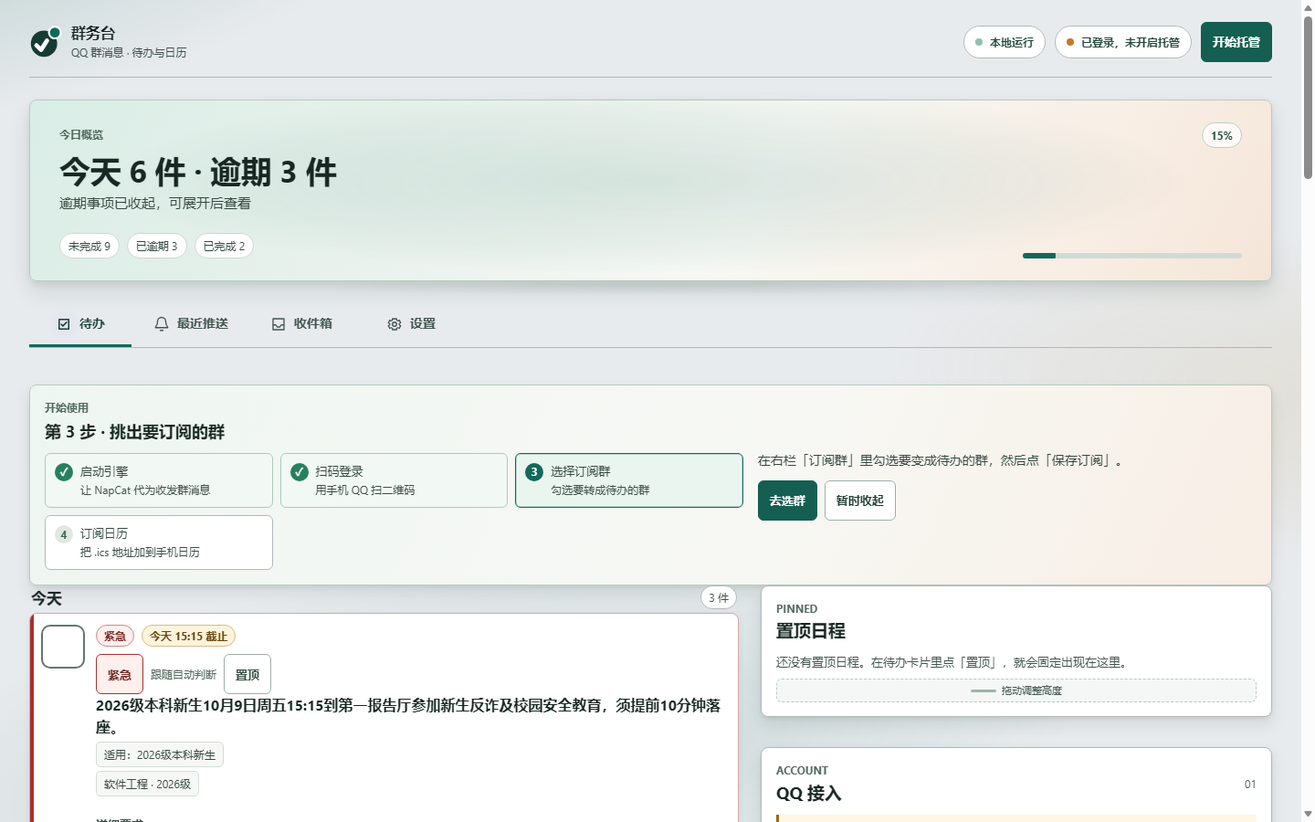
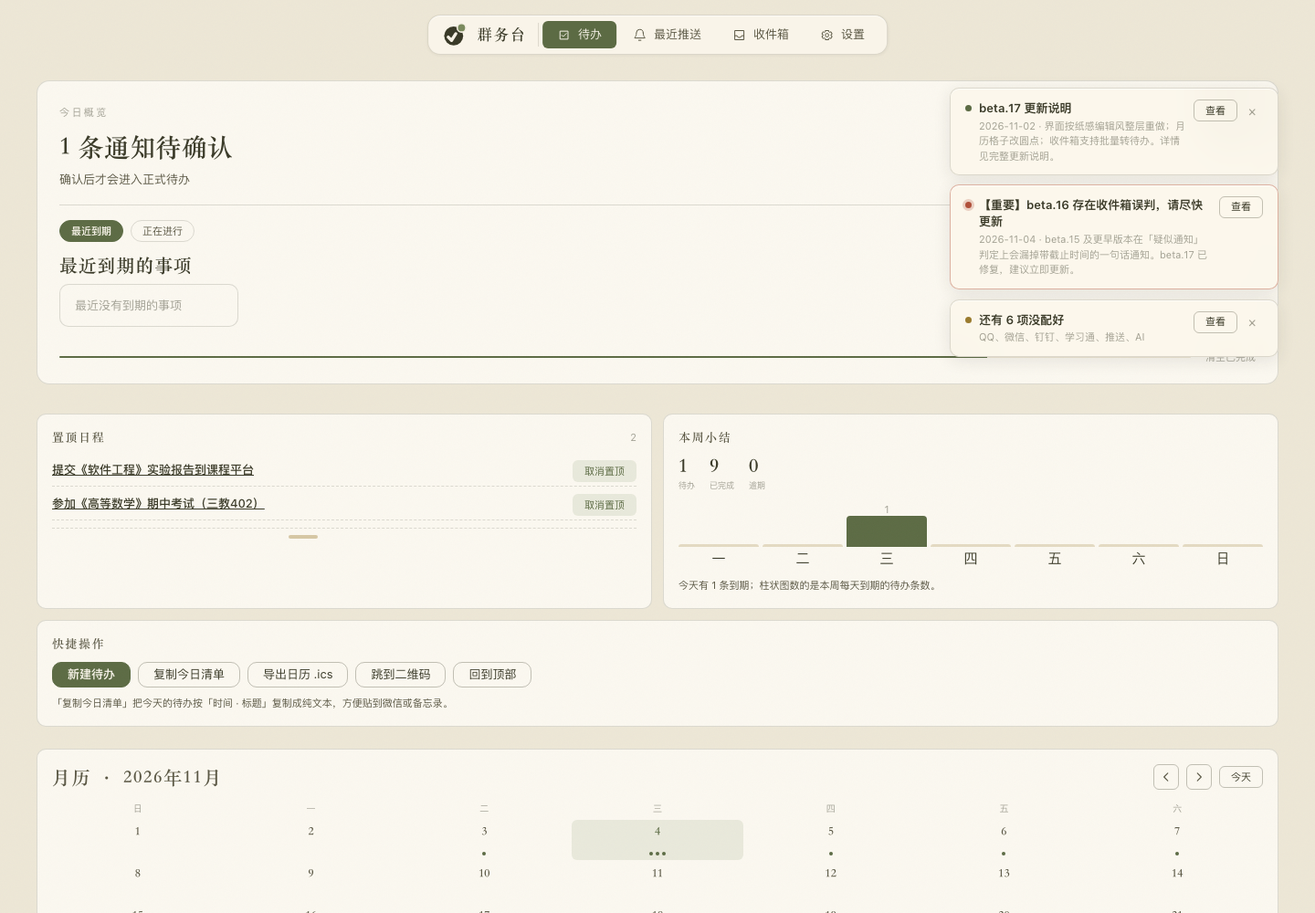
release: v1.1.0-beta.17（版本号、更新日志、公告、README、截图）
- 版本 1.1.0-beta.16 → 1.1.0-beta.17；changelog 把「未发布」整理成 beta.17 一节
- 新增 beta.17 公告（min/max_version 对齐，含升级方式）
- README：下载链接与发布横幅指向 beta.17，补本版说明；截图换成当前界面三张
  （待办 / 设置 → 外观含通知颜色 / 深色磨砂通知）

diff --git a/noticehub/version.py b/noticehub/version.py
@@ -9,7 +9,7 @@
 
 from __future__ import annotations
 
-APP_VERSION = "1.1.0-beta.16"
+APP_VERSION = "1.1.0-beta.17"
 APP_CHANNEL = "beta"  # "stable" | "beta"：决定检查 /releases/latest 还是 /releases 列表
 
 __all__ = ["APP_VERSION", "APP_CHANNEL"]

diff --git a/docs/wiki/changelog.md b/docs/wiki/changelog.md
@@ -8,6 +8,136 @@
 
 这一版之后的改动记在这里。
 
+## 1.1.0-beta.17 · 2026-11-04
+
+界面按原型收口的一版：提示与引导都收进右上角悬浮通知，通知颜色可以自己挑。
+
+**这一轮把提示和引导收进「右上角悬浮通知」，页面更安静。**
+
+- **服务公告不再占页头横幅。** 「【重要】beta.16 存在收件箱误判……」这类公告改成右上角悬浮通知，排在「还有 N 项没配好」的上面；点通知打开原来的公告详情弹窗，必须确认的公告没有 ×、不会自动消失。拉取失败时也会在同一位置出一条可关闭的提示，下一次拉取成功会自动撤掉、恢复真实公告。
+- **公告详情弹窗支持 Esc 关闭。** 按 Esc 等于点「我知道了」，关掉就算看过，下次启动不会再弹同一条。
+- **「开始使用」改成首次打开才弹。** 不再是一张常驻页面的卡：第一次打开软件（没点过「别再提醒」）时弹出来，看完可以随时关掉，不再把首页内容顶到一屏之下。
+- **通知卡换成真正的磨砂玻璃。** 半透明底 + 背景模糊，能透出底下的纸纹与内容；透明度按试用反馈调到 56%，深浅主题都重新校过文字对比度。
+- **通知颜色可以自己挑。** 设置 → 外观里「强调色」下面新增「通知颜色」：跟随纸面 / 鼠尾草 / 梅紫 / 赭橙 / 黛蓝 / 石墨，只影响右上角的悬浮通知，颜色会和纸面自动调和，玻璃质感不变。选择记在这个浏览器里。
+- **页签抬头只留大标题。** 「最近推送 / 收件箱 / 设置」抬头上面那行小字（eyebrow）按需求去掉了。
+- **新手引导文案跟着新入口改。** 「点顶栏开始托管」「右栏订阅群」这类过时说法改成「设置 → 托管设置 / QQ 接入 / 订阅群」，引导按钮会先跳到设置页再高亮目标。
+**界面换成了纸感编辑风。** 配色、导航、卡片形状整体重做：暖纸底、沙色细线、鼠尾草绿做强调，顶栏收成一条浮在页面上的窄岛。功能一个没少，位置变了不少。
+
+- **顶栏变成浮岛。** Logo 和四个页签收进同一条窄栏，浮在页面上方。滚动时它一直在，下面的内容不会被它压住。（公告铃铛与托管开关这轮移出了浮岛，见下。）
+- **配色换成纸墨四色。** 页面底 #EDE7D6、卡片 #FBF8F0、边框 #8C8168、文字 #3A3A28，强调色是鼠尾草绿 #5C6B44。深浅两套都重新算过对比度：正文对卡片 10.9:1、次要文字 6.9:1、分隔线 3.6:1，都过 WCAG。
+- **背景从「流动柔光」换成纸纹。** 原来底色上有两层慢慢漂移的青绿光晕，现在整页铺一层极淡的纸纤维颗粒（固定层，不拦点击、不吃性能），纸感更安静。
+- **按钮改成方形圆角。** 以前全是胶囊形，现在按钮、页签、输入框都是长方形加圆角；胶囊只留给状态标签、版本徽标、进度条和开关。卡片不再有可见阴影，靠一道沙色细线分界。
+- **右栏四块搬进主列做了 bento。** 置顶日程、本周小结、快捷操作、服务自检不再挤在右侧长条里，改成主列上两行两格的方块，只在「待办」页签出现；月历跟在待办分组后面。
+- **QQ 接入与订阅群搬进设置页。** 设置页改成「左侧分组导航 + 右侧面板」：接入与通道、提醒与订阅、系统与更新三组，点左边跳到对应面板。
+- **今日概览保留成一块。** 大标题、完成度、最近到期/正在进行的切换、进度条和「清空已完成」还在同一张卡里，只是换成了衬线大标题；轮播从固定 200px 高的方块改成横向滑动的卡片带。这块卡只在「待办」页签出现（见下）。
+- **月历格子只留圆点。** 有事项的日期格里画小圆点（一件一个，最多三个），不再挤小字事项和「+N」；点一下日期格（或键盘回车）在下方展开当天全部事项与截止时刻，再点一下收回。
+- **主题多了一档「跟随系统」。** 设置 → 外观里从两档变三档，选了跟随系统，系统切深色页面就跟着变，不用刷新。
+- **强调色可以自己挑。** 设置 → 外观里新增五个色点（鼠尾草、梅紫、赭橙、黛蓝、石墨），点一下全站的主按钮、选中态、焦点环一起换，选择记在这个浏览器里。
+- **版本号从页头挪到了设置页。** 顶栏不再显示 beta 徽标，位置更清爽；版本号和推送通道、服务端口一起放在「运行信息」里。
+- **品牌副标题删除。** 顶栏只留 Logo 和「群务台」三个字，浮岛高度收到 44px。
+- **浮球页同步换色。** 桌面浮球和面板用同一套纸墨配色，暗色也一起改了。
+
+**这一轮把界面按 `b-integrated` 原型逐项对齐，改的是形状与位置，不是功能。**
+
+- **Logo 换成原型的三色。** 墨橄榄圆做底、纸色圆点压在右上、鼠尾草绿做内圈、纸色对勾；服务端注入的品牌色（`--brand-ink` / `--brand-accent`）仍然生效。
+- **浮岛只留 Logo 和页签。** 公告铃铛的入口先空着（公告面板与接口都没动，只是没挂在浮岛上）；托管状态和「开始托管」按钮搬进设置页。
+- **设置页多了「托管状态」卡。** 设置页右列第一块就是它：状态按钮点开还是「开始使用」引导，旁边的「开始托管 / 停止托管」照旧。
+- **「关于与支持」搬进设置页。** 原来挂在待办页末尾，现在是设置页右列最下面一块，左侧子导航里能直接跳过来。
+- **当天事项详情不再套卡片。** 去掉了卡片边框和底，只留一道虚线顶边 + 衬线日期标题 + 件数小字；右上角的关闭从图标换成「收起」两个字。
+- **各处尺寸按原型收紧。** 卡片、按钮、页签、输入框、日历格统一到一套更紧的圆角与高度（卡片/按钮 10px、页签 30px 高、按钮 28px 高、小按钮 24px、输入框 28px 高）；待办卡悬停只横向错开 2px，不再抬阴影。
+- **单文件演示页签修好了。** 本地生成的那份单文件演示页（不入库）双击打开时不再被首装向导浮层盖住，四个页签可以正常点。
+
+**界面几何换成了一套设计令牌。** 样式段里不再散落随手写的像素值，圆角、间距、字号、层级各有一套刻度，改一个变量就能整体挪动。这是为以后重做界面打底的第一版。
+
+- **圆角收敛到四档。** 以前同一个界面里有 2 / 3 / 4 / 5 / 6 / 7 / 8 / 9 / 10 / 12 / 14 / 16 / 18 / 20 / 25 / 99 / 999 这么多圆角值，同一种元素在不同面板里长得都不一样。现在按原型只留：控件 6、卡片与按钮 10、浮岛与概览 14、胶囊 999（正圆 50%）。16px 见方的复选框和柱状图底部另有 4px 与 2px 的固定小圆角，不再参与分档。
+- **间距统一到 4 的倍数。** 卡片之间、卡片内边距、标题与内容之间这三种关系，桌面和手机上用的是同一个刻度。手机端以前会把内边距收到 12/8，现在和桌面一致——同一种关系在不同宽度下应该读起来是同一种节奏。
+- **模块之间只剩三档间距：8 / 16 / 24。** 卡片之间 8；概览到顶部横幅、横幅到页签、卡片内边距 16；顶栏到概览、页签到内容、分组之间、左右两栏的模块之间 24。断落之间的距离永远大于断落内部的距离，扫一眼就知道哪几块是一家人。原来有两处把间距算了两遍——右栏面板的 grid gap 和自身 margin 叠成 32px，引导块叠在 main 的内边距上——都改回单层。
+- **段落、列表、标题的浏览器默认边距也归到刻度上。** 浏览器给的是 1em（15px / 13px / 18.675px），和别处的节奏对不上；现在统一 16px，项目里已有的显式边距照样覆盖它。
+- **字号收成九级阶梯，取值就是原型那张表。** 34 / 28 / 22 / 20 / 16 / 15 / 13 / 11 / 9，每一级对应一个语义（大标题、标题一、标题二、标题三与面板标题、小标题、正文、密集区、脚注、角标），相邻两级不再强行拉开固定比值——按语义分档比按比例分档更稳。
+- **卡片之间不再互相压盖。** 顶部「今日概览」卡片外圈那层呼吸光晕原来是向外扩 14px 的，会盖住上面的吸顶栏和下面的页签；现在收进卡片内部，呼吸到最大幅度也还在卡里。
+- **文字和边框之间至少留 12px。** 承载文字的卡片、面板、输入框、按钮，四边内边距不再小于 12px；文字紧贴边框那种「挤」的观感没有了。内联标签、徽标、图标按钮、日历网格这类靠父级留白的元素单独列了白名单。
+- **同一种卡片内部结构一致。** 待办卡、置顶卡、收件箱条目、右栏面板的「标题 → 详情 → 操作」三段间距取同一组值，扫一眼就能在不同区块之间找到同样的位置。
+- **段落默认边距归到刻度上。** 浏览器给段落的默认边距是 1em（15px / 13px / 18.675px），和别处的间距节奏对不上；现在改成 16px，项目里已有的显式边距照样生效。
+
+**这一轮是照原型的一次「全量对表」。** 上一版只把颜色和令牌换了过来，形状其实没跟上；这次把原型的规格表逐条搬下来重做了版面。
+
+- **浮岛真的居中了。** 以前它横贯整个版心、像一条顶栏；现在是内容有多宽就多宽的窄胶囊，居中浮在页面上方，品牌和页签之间多了一道竖分隔线。窄屏（≤760px）它会落到底部变成标签栏：图标在上、文字在下，选中只变字色不铺底。
+- **待办卡片换了骨架。** 标题回到第一行，截止时间、紧急、已置顶、分类、来源群、稍后、待确认全部变成标题下的一排小胶囊（不再截断成「最多两个 + N」）；完成、稍后、忽略、置顶、标记紧急这些按钮统一贴到卡片右侧，「紧急」和「置顶」不再是标题下面那一排切换按钮。
+- **今日概览只属于「待办」。** 它以前挂在页头，四个页签里都跟着；现在搬进待办页内部。最近推送、收件箱、设置各有一块居中的页签抬头——小字标签 + 一行衬线大标题。
+- **完成度换成衬线大数字。** 「今日已完成 58%」不再是右上角一枚胶囊标签，而是右侧的衬线大字加小字说明。
+- **圆角只剩四档。** 控件 6px、卡片与按钮 10px、浮岛与概览 14px、胶囊 999px；12px 和 8px 两档彻底去掉，同类元素在任何面板里都是同一个曲率。
+- **字号对齐原型那张表。** 34 / 28 / 22 / 20 / 16 / 15 / 13 / 11 / 9，设置页和月历的分组标题回到衬线 20px（以前被压到 13px，和标签一样大）。
+- **按钮分四种角色。** 主行动实心（accent 底）、标准描边、次要无框、删除红字；小号统一 24px 高。
+- **月历格子间隙收到 2px。** 选中的那天改用 1.5px 内描边圈住，不再画边框；月份翻页是小方按钮，旁边多了「今天」。
+- **收件箱、推送、设置按原型重排。** 收件箱一条是「标题 + 元信息行 + 右侧动作」；推送是一条 70 字符宽的居中阅读列，每条一道细实线分隔；设置页左导航 212px、选中用纸色底而不是实心绿。
+- **横向留白上了台阶。** 版心左右留白按窗口宽度取 16 / 24 / 32 / 40，都落在 4px 网格上——不会再出现 46.08px 这种小数。
+
+
+**设置页再修三处，并给通知留了一条正式的通道。**
+
+- **左侧导航能滚了。** 窗口不够高时（比如 900 高的屏幕）导航比可视区还高，它又被钉在顶部不动，最后几项「服务自检 / 关于与支持」永远够不到。现在导航自己可以滚，滚到底也不影响页面滚动，最后一项点得到、跳得动。
+- **「托管设置」重排。** 原来把三组设置各做成一张带边框的小卡，塞进托管设置这张大卡里，等于三层框套在一起；现在改成和其它设置面板一样的形态：状态行 + 「开始托管 / 结束托管」放在最上面，下面用「分组标题 + 一行一项」的方式列自动化和 AI 选项，长说明挂在标题下面一行小字。
+- **「还有 N 项没配好」改成右侧悬浮通知。** 以前它是页头的一条横条，要占一整行、还得点开才看到差什么。现在是右上角一张小卡：写明还差几项、差哪些平台，点一下弹出体检详情（每项都能直接「去配置」），右上角可以关掉。窗口窄时它自动落到页面底部、底栏之上。
+- **通知卡片是磨砂玻璃。** 和顶部那条浮岛用同一套材质：半透明纸面 + 背景模糊，压在页面内容上能透出底下的纹理；深浅两套主题各自取自己的纸色。系统里开了「降低透明度」就自动退回不透明的实色卡片，不做模糊。
+- **通知通道做成了通用件。** 以后的重要通知、掉线提醒、版本更新提示都可以直接推到这条通道上，不需要再各写一套横条。深浅两套主题、关闭动效、键盘操作（回车打开、Esc 关闭）都已处理。
+
+**深色主题下的开关修好了。**
+
+- **深色下开关的圆钮跑到左上角**：深色主题里有一条「所有输入框换深色底」的规则，用的是 `background` 简写，会连带把开关的圆钮位置（`background-position`）重置成左上角。现在这条规则排除了开关，开关配色也改成由四个颜色变量驱动，深浅主题只换变量值。
+- **深色下关着的开关几乎看不见**：轨道底色原来是近黑（#1D1D16），和页面底（#23231B）几乎同色，只剩一个白点。现在深色下轨道提亮到 #3E3E31、圆钮用纸白，一眼能看出是个开关。
+
+**这一轮修浮球与设置页的细节，并把「已保存」这类提示接进悬浮通知。**
+
+- **浮球页圆角与主界面统一**：控件 6px、卡片与面板 10px、胶囊与球体正圆；之前混着 7/8/12px。
+- **浮球条目的状态胶囊改为竖排**：紧急 / 置顶 / 新 三个胶囊在右上角自上而下排开、彼此留 4px 间隙，整列与左侧标题垂直居中（之前横排挤在一起）。
+- **设置页左栏与右列对齐**：常用设置区改为只占右列第一行，左栏从同一行起算，搜索框与「常用设置」标题同顶。
+- **设置页的胶囊开关修好了**：托管设置里 5 个开关被输入框的定宽规则拉成 180×28，圆钮也没落在槽中间；现在全部锁死 42×24，圆钮左右各留 3px 对称边距。
+- **「设置已保存」这类提示改用悬浮通知**：成功/提示类结果走右上角卡片，3 秒自动收起，不再在页面底部弹一条；失败仍留在底部，因为那里有「重试」。
+- **悬浮通知可多张竖向叠放**：卡与卡之间 10px，最多同屏 3 张（超出先收最旧的非常驻卡）。
+- **关键通知改用紧急红**：新增 `critical` 级别——红色圆点带光晕、卡片描边也转红，用在「必须处理」的公告与严重故障上；普通提醒仍是琥珀色。
+
+**这一轮把设置页的对齐、深色可读性和通知位置收尾，并给演示包补了全量数据。**
+
+- **设置页左栏与右列对齐**：常用设置区改成通栏，左栏从它下面起算，和右列第一个面板落在同一条线上（之前左栏比右侧低一截）。
+- **设置里的开关全部换成胶囊开关**：原来是打勾的方框，现在是 iOS 那种滑动式开关，勾选态轨道变墨绿、圆钮滑到右侧；禁用与深色都单独处理过。
+- **深色下文字消失问题全软件排查并修复**：浅绿底（`--teal-soft`）配亮色字在深色主题下对比只有 1.2:1，看着像字没了。凡是「浅绿底 + 绿/亮字」的组合——包括页签悬停、左侧导航悬停、品牌按钮、紧急/置顶切换、通知按钮、设置项悬停——深色下一律换成中性提亮底，文字统一压到正文色。
+- **「快捷操作」卡片拉满整行**：它是一排按钮，之前只占半宽把六个动作挤成两行。
+- **悬浮通知挪到版心右边缘**：原来贴在视口右上角，既压住右列内容、又和顶部浮岛不在一条线上；现在水平对齐内容右边缘，垂直从浮岛下沿起算。
+- **演示包补齐全量数据**：多了三条服务公告（含一条红色关键公告）、一个可下载的版本更新、以及通知卡片的全形态演示（成功/提示/警示/错误、带按钮/纯文本、常驻/自动消失、连推多条）——打开单文件演示页就能逐个看到。
+
+**又一轮设置页与通知的细节修正。**
+
+- **通知卡片去掉左侧色条**：语义级别（提示/成功/警示/错误）改由圆点承担，卡片四边同一条细线。
+- **通知详情弹窗排版重调**：每项「平台名（衬线）一行、状态说明一行、动作按钮靠右」，正文区加了边距与虚线框，长说明不再和按钮挤在一起。
+- **常用面板距浮岛太远的问题**：「开始使用」引导块之前会出现在所有页签上，把最近推送、收件箱、设置的抬头顶到一屏之下；现在它只在待办页出现，三个页签的内容紧贴浮岛。
+- **设置页顶部多了「常用设置」**：六个磁贴（主题外观 / 托管 / 推送通道 / iPhone 日历 / 订阅群 / 服务自检），点一下直达对应面板。
+- **设置页所有卡片圆角与内边距统一**：一律 10px 圆角、16px 内边距（之前混着 6px/12px/16px 三种）。
+- **修了「点深色主题按钮文字消失」**：深色下选中卡片的底色和文字一起变浅，对比度只剩 2.2:1；改用实色底并锁定文字色。深色下顶部页签、左侧导航、通知按钮悬停时同理（悬停底色换中性色）。主题选项上的三色预览方块按需求删除。
+- **「置顶日程」的取消置顶改成标准小按钮**（之前是光秃秃的文字，命中区只有一行高）。
+- **「本周小结」的柱状图修好了**：容器高度不够，七根柱全被裁掉；现在柱子能长出来、没有到期的日子也留 3px 基线、柱顶显示当日数字。
+- **「支持开发者」的二维码恢复正方形**（之前被压成 180×120）。
+
+**设置页重做：布局归位、导航能用了、多了搜索。**
+
+- **右列面板的顺序和左侧导航对上了。** 之前右边从「首次配置」开始、QQ 接入和订阅群被挤到页面最底下，跟左边的分组完全对不上；现在从上到下就是导航的顺序：QQ 接入 → 订阅群 → 钉钉 → 微信 → 学习通 → 推送通道 → iPhone 日历 → 手机 App → 托管设置 → 外观 → 版本更新 → 数据备份 → 运行信息 → 服务自检 → 关于与支持（「首次配置」「实验室」这类没有导航项的面板排在最前/末尾附近）。
+
+- **设置页不再错位。** 之前抬头和左侧导航叠在同一位置（一个通栏标题压在导航上），十几个设置面板被压进 212px 的窄栏。现在抬头独占一行、左侧导航固定 212px 并跟随滚动、面板全在右侧 1116px 里。
+- **左侧 15 项导航都能点了。** 以前「QQ 接入 / 订阅群 / 关于与支持 / 推送通道」点了没反应，「托管设置 / 运行信息」会跳到整页。现在每一项都对应到一个真实面板，跳过去会停在页头下方，滚到哪一段左边就高亮哪一项。
+- **推送通道独立成一块。** 它原来藏在「托管设置」里，导航里那一项是死链；现在单独一块面板。
+- **设置项可以搜。** 左侧导航上方多了一个搜索框：输入「主题」只剩外观，输入「推送」只剩推送通道与运行信息，搜不到会明确说没匹配；按 Esc 清空、按回车直接跳到第一个结果。
+- **服务自检搬进设置。** 原来在待办页的方块里，现在在「设置 → 系统与更新 → 服务自检」，进去就会重新检测一次；「打开设置」这个按钮在设置页里没必要，已去掉。
+- **动效开关只留在外观。** 以前「快捷操作」里有个「暂停动态效果」、设置里还有一个「轻微动效」，同一个开关两处。现在只在「设置 → 外观」里，和主题、强调色排在一起。
+- **深浅两色向原型校准。** 警示黄、错误红、强调色的两档都换成原型的取值；深色下错误红从偏橙的 #E08A6E 改成 #C97A62，和纸墨底更协调。
+
+**上一版漏掉和弄坏的地方，这一版补上。**
+
+- **页面底部不再露出一段程序代码。** 上一版有一次改版面时，把两个脚本块嵌套在了一起，其中一段代码于是被当成正文直接画在页脚。同一处还连带让「滚到卡片」的定位和三处调用一起失效。现在脚本块各自独立，左侧设置导航的跳转与高亮也恢复工作。
+- **今日概览这张卡不再贴边。** 它上一版被当成「容器」处理，左右留白变成了卡内留白，卡框直接顶到屏幕两边；现在它和全站其它卡片一样向内缩一档，1440 宽下卡片 1360、左右各留 40。
+- **页头 Logo 回到原型配色。** 测试版通道此前把深浅两个品牌色都刷成同一个琥珀，底圆和内圈同色，整只标糊成一团。现在 Logo 固定用墨橄榄 + 鼠尾草双色，测试版与正式版只靠版本徽标区分。
+- **设置页排版归位。** 之前两列网格没有显式定位：衬线大标题被挤进 212px 的窄栏、左侧导航横撑成一整行、十几个设置面板全被压成 212px 宽。现在抬头通栏、导航占左列、面板全在右列；窄屏收成单列时也不再撑出隐性第二列。
+
+**后端跟着合进上游这一批修复。** 服务掉了会自己回来：计划任务每 5 分钟探一次健康检查，没应答就隐藏拉起，托盘里主动「退出」写下的 `manual-exit.flag` 不会被拉起；注册的 `NapCat-QQ-Watchdog` 任务会回读确认真的建出来了（`-WhatIf` 会打印每个触发器）。另外 NapCat 秒退不再报成功、库文件损坏时不硬建新库、微信分片解密失败不再静默丢消息、更新状态写入与并发读取的竞态也一并修了。界面与文案仍按本项目自己的重做版，不受上游那一批改文案影响。
+
 ## 1.1.0-beta.16 · 2026-11-01
 
 **重复启动不再堆标签。** 已经开着一份群务台时，只有在看不到控制台窗口时才把页面打开一次；开机自启和自动更新后的重启都不再抢屏幕。

diff --git a/README.md b/README.md
@@ -12,9 +12,18 @@
 [![Tests](https://github.com/ExpertKT/notice-hub/actions/workflows/tests.yml/badge.svg)](https://github.com/ExpertKT/notice-hub/actions/workflows/tests.yml)
 [![Release](https://img.shields.io/github/v/release/ExpertKT/notice-hub?color=12695b&label=release&include_prereleases)](https://github.com/ExpertKT/notice-hub/releases)
 
-[下载正式版 v1.0.0](https://github.com/ExpertKT/notice-hub/releases/tag/v1.0.0) · [下载测试版 v1.1.0-beta.16](https://github.com/ExpertKT/notice-hub/releases/tag/v1.1.0-beta.16) · [使用说明](docs/使用说明.md) · [API 接入](docs/接API.md) · [安卓 App](docs/安卓App.md) · [NapCat 安装](docs/napcat-setup.md)
+[下载正式版 v1.0.0](https://github.com/ExpertKT/notice-hub/releases/tag/v1.0.0) · [下载测试版 v1.1.0-beta.17](https://github.com/ExpertKT/notice-hub/releases/tag/v1.1.0-beta.17) · [使用说明](docs/使用说明.md) · [API 接入](docs/接API.md) · [安卓 App](docs/安卓App.md) · [NapCat 安装](docs/napcat-setup.md)
 
-**🧪 v1.1.0 测试版（beta.16）已发布 — [查看说明并下载 →](https://github.com/ExpertKT/notice-hub/releases/tag/v1.1.0-beta.16)**
+**🧪 v1.1.0 测试版（beta.17）已发布 — [查看说明并下载 →](https://github.com/ExpertKT/notice-hub/releases/tag/v1.1.0-beta.17)**
+
+### v1.1.0-beta.17 · 界面收口：提示进右上角，通知颜色可选
+
+- **公告不再占页头**：服务公告改成右上角的悬浮通知，排在「还有 N 项没配好」上面；点通知看全文，必须确认的公告没有关闭按钮、不会自己消失。拉取失败也在同一位置提示，下次拉到自动撤掉。
+- **「开始使用」改成首次打开才弹**：不再是一张常驻页面的卡，看完点「别再提醒」就不再出现。
+- **通知颜色可以自己挑**：设置 → 外观 → 通知颜色，六档（跟随纸面 / 鼠尾草 / 梅紫 / 赭橙 / 黛蓝 / 石墨）。只影响右上角通知，玻璃质感不变。
+- **通知卡换成真正的磨砂玻璃**：半透明底 + 背景模糊，能透出底下的纸纹；深浅主题都重新校过文字对比度。
+- **新手引导文案跟着新入口改**：「点顶栏开始托管」「右栏订阅群」改成「设置 → 托管设置 / QQ 接入 / 订阅群」，按钮会先跳到设置页再高亮目标。公告详情弹窗也支持 Esc 关闭。
+- **后端合入这一批上游修复**：看门狗任务注册、NapCat 秒退判活、损坏库隔离、微信分片解密失败不再静默丢消息、更新状态写入与并发读取的竞态。
 
 ### v1.1.0-beta.16 · 完全自主的代码与文档
 
@@ -92,14 +101,19 @@
 
 这是**预发布版**，稳定版仍是 [v1.0.0](https://github.com/ExpertKT/notice-hub/releases/tag/v1.0.0)；稳定版通道仍按版本筛选，不会自动升级到测试版。
 
-<a href="https://github.com/ExpertKT/notice-hub/releases/tag/v1.1.0-beta.16">
+<a href="https://github.com/ExpertKT/notice-hub/releases/tag/v1.1.0-beta.17">
   <img src="docs/promo/poster-16x9.png" alt="群务台 v1.1.0 测试版：多来源接入、跨平台源码运行与界面体验修复" width="760" />
 </a>
 
 </div>
 
 <p align="center">
-  <img src="docs/screenshots/desktop-tasks.png" alt="桌面端待办总览：今天、本周、已过期分组，右侧是置顶日程与 QQ 接入" />
+  <img src="docs/screenshots/desktop-tasks.png" alt="桌面端待办总览：今日概览、分组待办、月历，右上角是磨砂悬浮通知" width="900" />
+</p>
+
+<p align="center">
+  <img src="docs/screenshots/desktop-settings.png" alt="设置 → 外观：主题三档、界面动效、强调色与通知颜色" width="440" />
+  <img src="docs/screenshots/desktop-dark-notify.png" alt="深色主题下的磨砂悬浮通知" width="440" />
 </p>
 
 ## 适合谁
